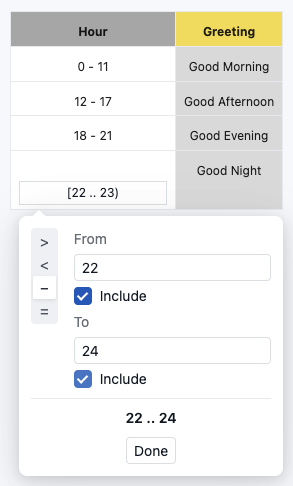
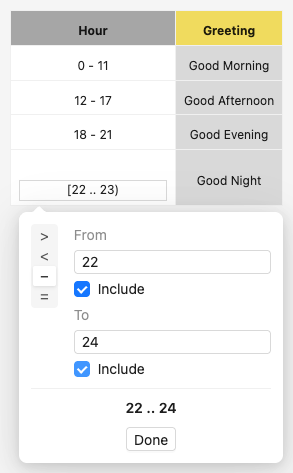
Fix vertical centring of workbook cells, which the grid drew at the top

diff --git a/STUDIO/studio-ui/src/components/RawTableGrid.tsx b/STUDIO/studio-ui/src/components/RawTableGrid.tsx
@@ -101,6 +101,14 @@ const tinted = (colour: string | undefined, muted: boolean): string | undefined 
 /** Given to every cell the workbook styled in no way at all, rather than a fresh object each. */
 const PLAIN: React.CSSProperties = {}
 
+/**
+ * How CSS lines a cell up from top to bottom, for the alignment the workbook gives it. CSS calls the middle of a
+ * cell `middle`, where the workbook says `center`. A cell aligned to the bottom, Excel's default, has no alignment
+ * of its own and keeps the top of the grid.
+ */
+const verticalAlignOf = (valign: string | undefined): React.CSSProperties['verticalAlign'] =>
+    valign === 'center' ? 'middle' : valign as React.CSSProperties['verticalAlign']
+
 const cellStyle = (style: RawTableCell['style'], painted: boolean, muted: boolean): React.CSSProperties => {
     // Most cells of a workbook are written in no style at all, and a table holds thousands of them.
     if (style === undefined && !painted && !muted) {
@@ -110,7 +118,7 @@ const cellStyle = (style: RawTableCell['style'], painted: boolean, muted: boolea
         background: painted ? undefined : tinted(style?.background, muted),
         color: tinted(style?.color, muted),
         textAlign: style?.align as React.CSSProperties['textAlign'],
-        verticalAlign: style?.valign as React.CSSProperties['verticalAlign'],
+        verticalAlign: verticalAlignOf(style?.valign),
         fontWeight: style?.bold ? 'bold' : undefined,
         fontStyle: style?.italic ? 'italic' : undefined,
         textDecoration: style?.underline ? 'underline' : undefined,

diff --git a/STUDIO/studio-ui/src/components/RawTableGrid.test.tsx b/STUDIO/studio-ui/src/components/RawTableGrid.test.tsx
@@ -88,6 +88,24 @@ describe('RawTableGrid', () => {
         expect(styled.style.fontWeight).toBe('bold')
     })
 
+    it('lines a cell up from top to bottom as the workbook does, its middle named as CSS names it', () => {
+        const table: RawTableCell[][] = [[
+            { cell: 'A1', value: 'middle', rowspan: 2, style: { valign: 'center' } },
+            { cell: 'B1', value: 'top', style: { valign: 'top' } },
+        ], [
+            { covered: true },
+            { cell: 'B2', value: 'bottom', style: { bold: true } },
+        ]]
+
+        render(<RawTableGrid rows={table} testId="grid" />)
+
+        const cells = screen.getByTestId('grid').querySelectorAll('td')
+        expect(cells[0]).toHaveStyle({ verticalAlign: 'middle' })
+        expect(cells[1]).toHaveStyle({ verticalAlign: 'top' })
+        // A cell aligned to the bottom, Excel's default, names no alignment and keeps the one of the grid.
+        expect((cells[2] as HTMLElement).style.verticalAlign).toBe('')
+    })
+
     describe('in a dark theme', () => {
         const drawDark = (table: RawTableCell[][]) => renderInTheme(
             <RawTableGrid layout={{ firstDataLine: 1 }} rows={table} testId="grid" />,
